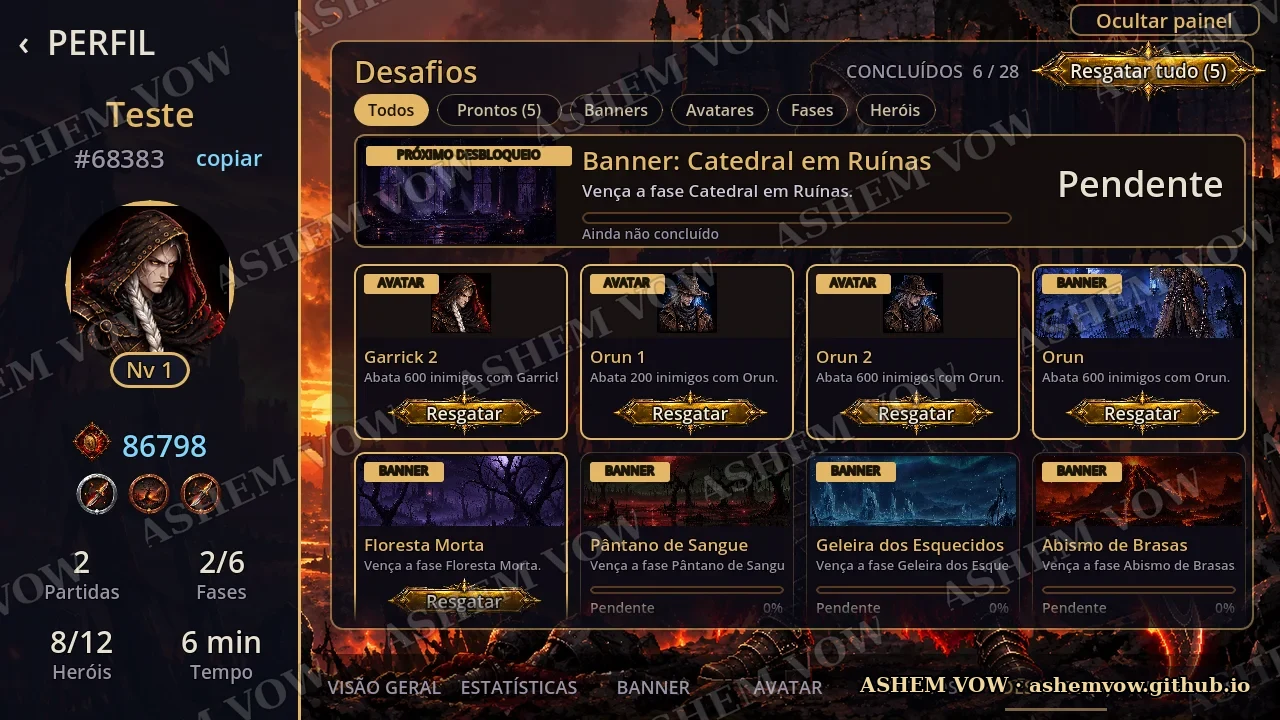
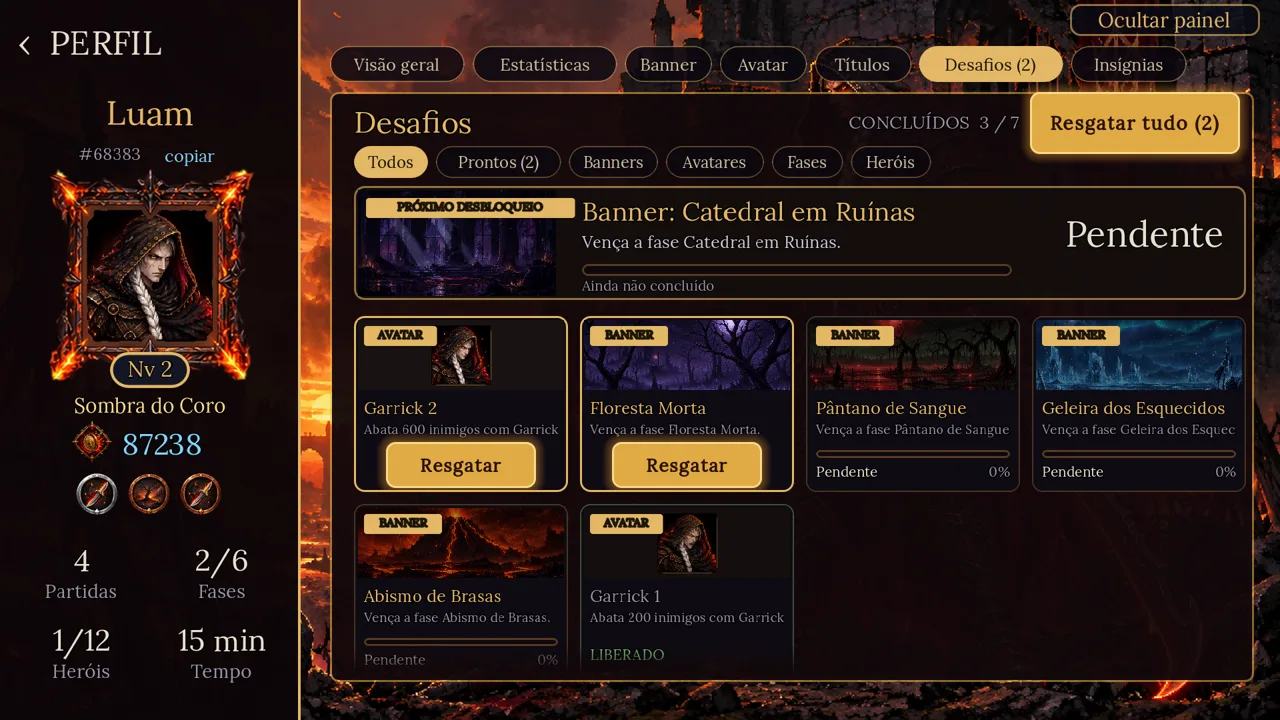
Versão 11: idiomas, tutorial, segurar habilidade, Passe e Roleta novos, perfil, ranking geral e apelido
Novidades no site e no jogo (novidades.txt), andamento, recursos, perguntas,
ficha (3 idiomas) e prints novos das telas.

Claude-Session: https://claude.ai/code/session_01LXs5qySdVa1eT6DHyL5ZEk

diff --git a/content.js b/content.js
@@ -31,7 +31,7 @@ window.SITE = {
   },
 
   /* Faixa rotativa abaixo do topo */
-  faixa: ["12 heróis jogáveis", "6 cenários dark fantasy", "18 chefes", "Partidas de até 15 minutos", "Ranking online", "Suporte a controle", "Progresso salvo na nuvem", "Sem pagar para vencer"],
+  faixa: ["12 heróis jogáveis", "6 cenários dark fantasy", "18 chefes", "Partidas de até 15 minutos", "Português, inglês e espanhol", "Tutorial para quem chega", "Ranking geral online", "Suporte a controle", "Progresso salvo na nuvem", "Sem pagar para vencer"],
 
   /* Carrossel "Seis momentos" */
   momentos: [
@@ -56,25 +56,32 @@ window.SITE = {
 
   /* "Além da partida" */
   recursos: [
-    { t: "Ranking online", d: "Compare seu melhor tempo em cada fase com jogadores de todo o Brasil." },
+    { t: "Ranking geral", d: "Seus melhores tempos de todas as fases somados num ranking só, com apelido único." },
     { t: "Missões e Maldição do dia", d: "Missões diárias e semanais, e uma maldição nova por dia que paga mais cinzas a quem aceita o desafio." },
-    { t: "Passe de Catedral", d: "30 níveis com trilha grátis e Premium, títulos, molduras e heróis exclusivos." },
+    { t: "Passe de Catedral", d: "Temporadas de 45 dias com 30 níveis, trilha grátis e Premium, títulos com insígnia própria, molduras e heróis exclusivos. As missões também dão XP do Passe." },
+    { t: "Em três idiomas", d: "Jogue em português, inglês ou espanhol. Troque quando quiser em Opções." },
     { t: "Maestria e insígnias", d: "Cada herói fica mais forte conforme você joga com ele. Desafios liberam banners, e 46 insígnias enfeitam o perfil." },
     { t: "Jogue com controle", d: "Conecte um controle Bluetooth, mude os botões como preferir e veja as dicas na tela." },
+    { t: "Fácil de começar", d: "Quem é novo ganha uma apresentação do menu e um tutorial na primeira partida. Segure qualquer habilidade para ver o que ela faz." },
     { t: "Sem pagar para vencer", d: "O jogo é grátis. Poções têm poder limitado e os anúncios são sempre opcionais." }
   ],
 
   /* Galeria de telas do jogo */
   galeriaJogo: [
-    { img: "assets/print-home.webp", legenda: "Tela inicial" },
+    { img: "assets/print-home.webp", legenda: "Tela inicial com o cartão do jogador" },
+    { img: "assets/print-apresentacao.webp", legenda: "Apresentação do menu para quem é novo" },
+    { img: "assets/print-tutorial.webp", legenda: "Tutorial da primeira partida" },
+    { img: "assets/print-segurar-habilidade.webp", legenda: "Segure a habilidade para ver o que ela faz" },
     { img: "assets/print-maestria.webp", legenda: "Heróis e maestria" },
     { img: "assets/print-preparar.webp", legenda: "Preparar: fase e poções" },
     { img: "assets/print-missoes.webp", legenda: "Missões e Maldição do dia" },
-    { img: "assets/print-passe.webp", legenda: "Passe de Catedral" },
+    { img: "assets/print-passe.webp", legenda: "Passe de Catedral: trilha Premium e grátis" },
     { img: "assets/print-roleta.webp", legenda: "Roleta da Catedral" },
+    { img: "assets/print-perfil.webp", legenda: "Perfil com tudo numa barra só" },
     { img: "assets/print-desafios.webp", legenda: "Desafios do perfil" },
     { img: "assets/print-insignias.webp", legenda: "Insígnias" },
-    { img: "assets/print-loja.webp", legenda: "Loja" }
+    { img: "assets/print-loja.webp", legenda: "Loja" },
+    { img: "assets/print-idioma-en.webp", legenda: "O jogo em inglês" }
   ],
 
   /* Perguntas frequentes */
@@ -84,6 +91,8 @@ window.SITE = {
     { p: "Quando o jogo lança?", r: "Logo depois do teste fechado. Quem se inscreve recebe o aviso por e-mail no dia do lançamento." },
     { p: "Como entro no teste fechado?", r: "Inscreva-se com o e-mail da conta Google que você usa na Play Store. Quando o teste abrir, mandamos o convite com o link para instalar." },
     { p: "Preciso de conta?", r: "Você entra com a sua conta Google. Assim o progresso fica salvo na nuvem e você não perde nada ao trocar de celular." },
+    { p: "Em quais idiomas dá para jogar?", r: "Português, inglês e espanhol. Na primeira vez o jogo usa o idioma do celular, e você troca quando quiser em Opções." },
+    { p: "Posso trocar meu apelido?", r: "O apelido é escolhido uma vez e é único no ranking. Para trocar depois, há uma troca de apelido por R$ 1,99 na própria tela do perfil (às vezes em promoção na Roleta)." },
     { p: "Dá para jogar com controle?", r: "Sim. Funciona com controle Bluetooth, os botões podem ser trocados e as dicas na tela seguem o padrão do controle de PS4." },
     { p: "Posso gravar vídeos e fazer lives?", r: "Pode, e a gente adora ver. Marque @ashemvow nas redes para aparecer no nosso perfil." }
   ],
@@ -95,13 +104,29 @@ window.SITE = {
     ["Plataforma", "Android (Google Play)"],
     ["Partidas", "Até 15 minutos"],
     ["Modelo", "Grátis, com compras opcionais"],
-    ["Idioma", "Português do Brasil"],
+    ["Idiomas", "Português, inglês e espanhol"],
     ["Controles", "Toque na tela ou controle Bluetooth"],
     ["Fase", "Teste fechado"]
   ],
 
   andamento: [
-    { titulo: "Já no jogo (versão 10)", itens: [
+    { titulo: "Já no jogo (versão 11)", itens: [
+      "Jogo em três idiomas: português, inglês e espanhol, com troca em Opções",
+      "Apresentação do menu e tutorial da primeira partida para quem é novo (dá para rever em Opções)",
+      "Segure o botão de uma habilidade para ver o nome, o que ela faz e o tempo de recarga",
+      "Botões da partida reagem ao toque, com brilho e onda",
+      "Passe de Catedral redesenhado, com vitrine do prêmio principal, trilha Premium e grátis e temporadas de 45 dias que começam no lançamento",
+      "Missões diárias e semanais também dão XP do Passe",
+      "Títulos do Passe com insígnia própria, uma para cada título",
+      "Roleta nova: a roda gira inteira e o prêmio aparece com a quantidade",
+      "Promoção surpresa na Roleta: heróis da loja, Passe Premium ou troca de apelido com desconto por 24 horas",
+      "Perfil com todas as abas numa barra só no topo: visão geral, estatísticas, banner, avatar, títulos, desafios e insígnias",
+      "Cartão do jogador na tela inicial com banner, moldura, nível, título e insígnias",
+      "Ranking geral: soma dos melhores tempos em todas as fases",
+      "Apelido escolhido uma vez, com confirmação; trocar depois custa R$ 1,99",
+      "Compras e anúncios reais do Google Play conectados, em teste",
+      "Jogo atualizado para a Godot 4.7, no padrão exigido pela Google Play",
+      "Cenas da história removidas para deixar o jogo mais leve",
       "Missões diárias (3) e semanais (3), com cinzas, fragmentos e XP do Passe, e indicador no menu quando há recompensa para resgatar",
       "Maldição do dia: um efeito novo por dia (horda, inimigos mais fortes, mais rápidos, sem cura ou herói mais frágil) que rende 75% a mais de cinzas, ligado por você em Preparar",
       "Maestria de herói: 5 níveis por herói, com bônus exclusivo de cada um, mostrados na tela de Heróis",
@@ -131,32 +156,35 @@ window.SITE = {
       "6 fases com cenário, 9 criaturas voadoras próprias e 3 chefes cada (18 chefes no total)",
       "Dificuldade reequilibrada: ataques à distância mais lentos e avisos antes dos mergulhos",
       "Habilidades e efeitos (explosões, itens, armas) desenhados por código, mais longos e visíveis até o fim",
-      "História em cutscenes narradas, com final de escolha",
       "8 poções temporárias, escolhidas antes da partida",
       "Recompensa diária de 7 dias (faltar um dia só pausa a sequência)",
-      "Loja, aba de novidades, trilha e vozes em volumes separados",
+      "Loja, aba de novidades, trilha e efeitos em volumes separados",
       "Anúncios opcionais para ganhar recompensas",
       "Login com conta Google, apelido escolhido no primeiro acesso e progresso salvo na nuvem",
       "Opção de sair da conta ou excluir a conta e os dados dentro do jogo"
     ]},
     { titulo: "Em produção", itens: [
       "Recompensas raras do site com login Google opcional (página de conta pronta, em teste), com banners e insígnias exclusivos",
-      "4 heróis novos (Ysolde, Kaelor, Mordrek e Lyra) com visual e animações prontos, a caminho do jogo",
       "Animações novas de correr e atacar do Sombras das Cinzas, do Irmão Brasa e da Vesper, e de parado do Irmão Brasa e da Vesper",
-      "Conectar compras e anúncios reais do Google Play",
+      "Teste fechado na Google Play com 12 testadores",
       "Trilhas próprias para Floresta, Pântano e Geleira",
       "Ajustes de equilíbrio dos chefes e testes em celulares reais",
-      "Legendas completas nas cenas"
+      "Mais idiomas"
     ]},
     { titulo: "Planejado", itens: [
       "Códigos de resgate com recompensas exclusivas, com conta de login",
-      "Ranking global com nick único (em ajuste)",
       "Recompensa por horas jogadas",
             "Lançamento na Google Play (Android)"
     ]}
   ],
   /* Novas novidades: copie um bloco e coloque no TOPO da lista */
   novidades: [
+    { data: "08/11/2026", titulo: "Versão 11: o jogo agora fala inglês e espanhol", texto: "Ashem Vow pode ser jogado em português, inglês ou espanhol. Na primeira vez ele usa o idioma do celular, e dá para trocar quando quiser em Opções. Menus, heróis, habilidades, armas, missões e maldições foram traduzidos." },
+    { data: "08/11/2026", titulo: "Apresentação do menu e tutorial para quem chega", texto: "Quem abre o jogo pela primeira vez vê uma apresentação rápida do menu, com cada parte iluminada e explicada. Depois, a primeira partida ensina a andar, atacar, ligar o ataque automático, subir de nível e usar as habilidades. Tudo pode ser pulado e revisto em Opções." },
+    { data: "08/11/2026", titulo: "Segure a habilidade para saber o que ela faz", texto: "Na partida, um toque rápido usa a habilidade. Segurando o botão aparece o nome, o que ela faz e o tempo de recarga, sem gastar a carga. As 39 habilidades dos 13 heróis têm explicação. Os botões também ganharam um brilho e uma onda ao toque, para mostrar que foram apertados." },
+    { data: "08/11/2026", titulo: "Passe de Catedral redesenhado e com temporadas", texto: "O Passe ganhou uma vitrine com o prêmio principal, trilha Premium em cima e grátis embaixo, e títulos com insígnia própria. As temporadas duram 45 dias e começam a contar no lançamento oficial. As missões diárias e semanais agora também dão XP do Passe." },
+    { data: "08/11/2026", titulo: "Roleta nova com promoções surpresa", texto: "A roda gira inteira e o prêmio aparece na tela com a quantidade. A fatia de promoção agora sorteia um desconto de 24 horas no que você ainda não tem: um herói da loja, o Passe Premium ou a troca de apelido." },
+    { data: "08/11/2026", titulo: "Perfil, cartão do jogador e ranking geral", texto: "O perfil reúne tudo numa barra só no topo. A tela inicial tem um cartão do jogador com o seu banner, moldura, nível, título e insígnias. O ranking virou geral: soma os seus melhores tempos de todas as fases. O apelido é escolhido uma vez, com confirmação, e trocar depois custa R$ 1,99." },
     { data: "27/10/2026", titulo: "Recompensas raras do site, com login opcional", texto: "O site ganhou uma página de conta. Entrando com o mesmo login Google do jogo (opcional), você resgata itens raros que só existem aqui: duas insígnias exclusivas (banners exclusivos chegam em breve). Para liberar cada um é preciso cumprir uma tarefa difícil dentro do jogo, como abater 10 mil inimigos. Depois de resgatar no site, o item cai direto na sua conta no jogo." },
     { data: "27/10/2026", titulo: "Versão 10: missões, maldição do dia e maestria", texto: "Três missões diárias e três semanais renovam sozinhas e pagam cinzas, fragmentos e XP do Passe. Cada dia traz uma Maldição nova (mais inimigos, mais vida, mais dano, mais velocidade, sem cura ou você mais frágil): ligue em Preparar e ganhe 75% a mais de cinzas. Cada herói também tem maestria de 5 níveis, com um bônus só dele, que sobe conforme você abate com ele." },
     { data: "27/10/2026", titulo: "Baú no fim da partida e o aviso Quase lá", texto: "Toda partida termina com um baú de bronze, prata ou ouro, de acordo com o seu desempenho, com cinzas, fragmentos ou XP do Passe. O jogo também mostra a insígnia ou missão que está mais perto de ser concluída, para você saber o que falta." },
@@ -213,6 +241,14 @@ window.SITE = {
   projeto: {
     intro: "Prints do jogo, folhas de arte e conceitos de Ashem Vow. Tudo em andamento e sujeito a mudanças.",
     itens: [
+      {"data": "08/11/2026", "img": "assets/print-apresentacao.webp", "legenda": "Apresentação do menu para jogadores novos"},
+      {"data": "08/11/2026", "img": "assets/print-tutorial.webp", "legenda": "Tutorial da primeira partida"},
+      {"data": "08/11/2026", "img": "assets/print-segurar-habilidade.webp", "legenda": "Segurando a habilidade: nome, efeito e recarga"},
+      {"data": "08/11/2026", "img": "assets/print-idioma-en.webp", "legenda": "Loja em inglês"},
+      {"data": "08/11/2026", "img": "assets/print-passe.webp", "legenda": "Passe de Catedral redesenhado"},
+      {"data": "08/11/2026", "img": "assets/print-roleta.webp", "legenda": "Roleta nova"},
+      {"data": "08/11/2026", "img": "assets/print-home.webp", "legenda": "Tela inicial com o cartão do jogador"},
+      {"data": "08/11/2026", "img": "assets/print-perfil.webp", "legenda": "Perfil com todas as abas no topo"},
       {"data": "27/10/2026", "img": "assets/print-missoes.webp", "legenda": "Missões diárias e semanais, com a Maldição do dia"},
       {"data": "27/10/2026", "img": "assets/print-fim.webp", "legenda": "Fim de partida: Maldição ativa, Quase lá e Baú de Prata"},
       {"data": "27/10/2026", "img": "assets/print-maestria.webp", "legenda": "Maestria do herói na tela de Heróis"},
@@ -248,7 +284,7 @@ window.SITE = {
     ]
   },
   /* Personagens, criaturas e cenários: gerados a partir do jogo. Imagens em assets/ */
-  personagens: [{"nome": "Garrick", "titulo": "Guardião das Cinzas", "habilidade": "Aura de Brasas", "descricao": "Um círculo de fogo queima quem chega perto e explode de tempos em tempos.", "skins": [{"nome": "Guardião das Cinzas", "img": "assets/p-garrick-padrao.webp"}], "banner": "assets/b-garrick.webp", "habilidades": [{"nome": "Aura de Brasas", "img": "assets/s-garrick-1.webp"}, {"nome": "Corte Ígneo", "img": "assets/s-garrick-2.webp"}, {"nome": "Eclipse de Cinzas", "img": "assets/s-garrick-3.webp"}]}, {"nome": "Yurinn", "titulo": "Tecelã de Brasas", "habilidade": "Fios de Brasa", "descricao": "Tece fios de fogo que perseguem os inimigos mais próximos.", "skins": [{"nome": "Tecelã de Brasas", "img": "assets/p-yurinn-padrao.webp"}], "banner": "assets/b-yurinn.webp", "habilidades": [{"nome": "Fios de Brasa", "img": "assets/s-yurinn-1.webp"}, {"nome": "Casulo", "img": "assets/s-yurinn-2.webp"}, {"nome": "Teia Ardente", "img": "assets/s-yurinn-3.webp"}]}, {"nome": "Brann", "titulo": "Sentinela da Luz Pálida", "habilidade": "Pilares de Luz", "descricao": "Chama colunas de luz sobre os inimigos. Muita vida, passos lentos.", "skins": [{"nome": "Sentinela da Luz Pálida", "img": "assets/p-brann-padrao.webp"}], "banner": "assets/b-brann.webp", "habilidades": [{"nome": "Pilares de Luz", "img": "assets/s-brann-1.webp"}, {"nome": "Selo Sagrado", "img": "assets/s-brann-2.webp"}, {"nome": "Julgamento", "img": "assets/s-brann-3.webp"}]}, {"nome": "Selka", "titulo": "Dançarina das Sombras", "habilidade": "Tempestade de Lâminas", "descricao": "Lâminas giram ao redor dela e cortam tudo no caminho. Rápida e frágil.", "skins": [{"nome": "Dançarina das Sombras", "img": "assets/p-selka-padrao.webp"}], "banner": "assets/b-selka.webp", "habilidades": [{"nome": "Tempestade de Lâminas", "img": "assets/s-selka-1.webp"}, {"nome": "Corrente Voadora", "img": "assets/s-selka-2.webp"}, {"nome": "Ceifa Sombria", "img": "assets/s-selka-3.webp"}]}, {"nome": "Orun", "titulo": "Coveiro das Almas", "habilidade": "Almas Ligadas", "descricao": "Almas libertas caçam os inimigos. Cada abate pode libertar mais uma.", "skins": [{"nome": "Coveiro das Almas", "img": "assets/p-orun-padrao.webp"}], "banner": "assets/b-orun.webp", "habilidades": [{"nome": "Almas Ligadas", "img": "assets/s-orun-1.webp"}, {"nome": "Mão do Coveiro", "img": "assets/s-orun-2.webp"}, {"nome": "Procissão dos Mortos", "img": "assets/s-orun-3.webp"}]}, {"nome": "Sombras das Cinzas", "titulo": "Mago das Sombras", "habilidade": "Bola de Fogo", "descricao": "Herói premium, à venda na loja por R$ 3,99 (às vezes em promoção na roleta). Feito de sombra e cinza, lança bolas de fogo, chuva de cinzas e explosões de sombras.", "skins": [{"nome": "Mago das Sombras", "img": "assets/p-sombras-padrao.webp"}], "banner": "assets/b-sombras.webp", "habilidades": [{"nome": "Bola de Fogo", "img": "assets/s-sombras-1.webp"}, {"nome": "Chuva de Cinzas", "img": "assets/s-sombras-2.webp"}, {"nome": "Explosão de Sombras", "img": "assets/s-sombras-3.webp"}]}, {"nome": "Ysolde", "titulo": "Bruxa da Geleira", "habilidade": "Estilhaços de Gelo", "descricao": "Herói da loja, R$ 6,99. Dispara dardos de gelo que atrasam quem acertam, congela o chão em volta dela e termina numa nevasca.", "skins": [{"nome": "Bruxa da Geleira", "img": "assets/p-ysolde-padrao.webp"}], "banner": "assets/b-ysolde.webp", "habilidades": [{"nome": "Estilhaços de Gelo", "img": "assets/s-ysolde-1.webp"}, {"nome": "Zona Congelante", "img": "assets/s-ysolde-2.webp"}, {"nome": "Nevasca", "img": "assets/s-ysolde-3.webp"}]}, {"nome": "Kaelor", "titulo": "Caçador de Espinhos", "habilidade": "Espinhos Brotando", "descricao": "Herói da loja, R$ 6,99. Espinhos negros rasgam o chão à frente dele e atordoam quem está no caminho. Cipós prendem os inimigos e uma roseira negra cobre a área.", "skins": [{"nome": "Caçador de Espinhos", "img": "assets/p-kaelor-padrao.webp"}], "banner": "assets/b-kaelor.webp", "habilidades": [{"nome": "Espinhos Brotando", "img": "assets/s-kaelor-1.webp"}, {"nome": "Cipó Prendedor", "img": "assets/s-kaelor-2.webp"}, {"nome": "Roseira Negra", "img": "assets/s-kaelor-3.webp"}]}, {"nome": "Mordrek", "titulo": "Alquimista da Peste", "habilidade": "Frasco Tóxico", "descricao": "Herói da loja, R$ 6,99. Arremessa frascos que deixam poças de veneno, solta uma nuvem pútrida e faz brotar uma flor da peste.", "skins": [{"nome": "Alquimista da Peste", "img": "assets/p-mordrek-padrao.webp"}], "banner": "assets/b-mordrek.webp", "habilidades": [{"nome": "Frasco Tóxico", "img": "assets/s-mordrek-1.webp"}, {"nome": "Nuvem Pútrida", "img": "assets/s-mordrek-2.webp"}, {"nome": "Flor da Peste", "img": "assets/s-mordrek-3.webp"}]}, {"nome": "Lyra", "titulo": "Arqueira Lunar", "habilidade": "Flecha Perfurante", "descricao": "Herói da loja, R$ 6,99. Uma flecha prateada atravessa a fila inteira de inimigos, chove flechas sobre a horda e a Marca da Lua cai sobre o mais forte.", "skins": [{"nome": "Arqueira Lunar", "img": "assets/p-lyra-padrao.webp"}], "banner": "assets/b-lyra.webp", "habilidades": [{"nome": "Flecha Perfurante", "img": "assets/s-lyra-1.webp"}, {"nome": "Chuva de Flechas", "img": "assets/s-lyra-2.webp"}, {"nome": "Marca da Lua", "img": "assets/s-lyra-3.webp"}]}, {"nome": "Irmão Brasa", "titulo": "Monge do Machado", "habilidade": "Giro Ardente", "descricao": "Exclusivo do Passe Premium, nível 15. Gira o machado e um círculo de brasas queima e atrasa os inimigos em volta.", "skins": [{"nome": "Monge do Machado", "img": "assets/p-monge-padrao.webp"}], "banner": "assets/b-monge.webp", "habilidades": [{"nome": "Giro Ardente", "img": "assets/s-monge-1.webp"}, {"nome": "Machados Voadores", "img": "assets/s-monge-2.webp"}, {"nome": "Golpe do Penitente", "img": "assets/s-monge-3.webp"}]}, {"nome": "Vesper", "titulo": "Cantora do Sino Negro", "habilidade": "Badalada", "descricao": "Exclusiva do Passe Premium, nível 30. O sino rachado ressoa em volta dela e fere quem chega perto.", "skins": [{"nome": "Cantora do Sino Negro", "img": "assets/p-vesper-padrao.webp"}], "banner": "assets/b-vesper.webp", "habilidades": [{"nome": "Badalada", "img": "assets/s-vesper-1.webp"}, {"nome": "Coro Sombrio", "img": "assets/s-vesper-2.webp"}, {"nome": "Réquiem", "img": "assets/s-vesper-3.webp"}]}, {"nome": "Dravik", "titulo": "Penitente da Tinta", "habilidade": "Selo de Tinta", "descricao": "Exclusivo do próximo Passe de Catedral. Tanque veloz que luta com os punhos e tem dano alto. Grava selos de tinta no chão, prende a horda com correntes e faz chover tinta sobre a tela inteira.", "skins": [{"nome": "Penitente da Tinta", "img": "assets/p-dravik-padrao.webp"}], "banner": "assets/b-dravik.webp", "habilidades": [{"nome": "Selo de Tinta", "img": "assets/s-dravik-1.webp"}, {"nome": "Correntes de Tinta", "img": "assets/s-dravik-2.webp"}, {"nome": "Chuva de Tinta", "img": "assets/s-dravik-3.webp"}], "tag": "Em breve · Passe da próxima temporada"}],
+  personagens: [{"nome": "Garrick", "titulo": "Guardião das Cinzas", "habilidade": "Aura de Brasas", "descricao": "Um círculo de fogo queima quem chega perto e explode de tempos em tempos.", "skins": [{"nome": "Guardião das Cinzas", "img": "assets/p-garrick-padrao.webp"}], "banner": "assets/b-garrick.webp", "habilidades": [{"nome": "Aura de Brasas", "img": "assets/s-garrick-1.webp"}, {"nome": "Corte Ígneo", "img": "assets/s-garrick-2.webp"}, {"nome": "Eclipse de Cinzas", "img": "assets/s-garrick-3.webp"}]}, {"nome": "Yurinn", "titulo": "Tecelã de Brasas", "habilidade": "Fios de Brasa", "descricao": "Tece fios de fogo que perseguem os inimigos mais próximos.", "skins": [{"nome": "Tecelã de Brasas", "img": "assets/p-yurinn-padrao.webp"}], "banner": "assets/b-yurinn.webp", "habilidades": [{"nome": "Fios de Brasa", "img": "assets/s-yurinn-1.webp"}, {"nome": "Casulo", "img": "assets/s-yurinn-2.webp"}, {"nome": "Teia Ardente", "img": "assets/s-yurinn-3.webp"}]}, {"nome": "Brann", "titulo": "Sentinela da Luz Pálida", "habilidade": "Pilares de Luz", "descricao": "Chama colunas de luz sobre os inimigos. Muita vida, passos lentos.", "skins": [{"nome": "Sentinela da Luz Pálida", "img": "assets/p-brann-padrao.webp"}], "banner": "assets/b-brann.webp", "habilidades": [{"nome": "Pilares de Luz", "img": "assets/s-brann-1.webp"}, {"nome": "Selo Sagrado", "img": "assets/s-brann-2.webp"}, {"nome": "Julgamento", "img": "assets/s-brann-3.webp"}]}, {"nome": "Selka", "titulo": "Dançarina das Sombras", "habilidade": "Tempestade de Lâminas", "descricao": "Lâminas giram ao redor dela e cortam tudo no caminho. Rápida e frágil.", "skins": [{"nome": "Dançarina das Sombras", "img": "assets/p-selka-padrao.webp"}], "banner": "assets/b-selka.webp", "habilidades": [{"nome": "Tempestade de Lâminas", "img": "assets/s-selka-1.webp"}, {"nome": "Corrente Voadora", "img": "assets/s-selka-2.webp"}, {"nome": "Ceifa Sombria", "img": "assets/s-selka-3.webp"}]}, {"nome": "Orun", "titulo": "Coveiro das Almas", "habilidade": "Almas Ligadas", "descricao": "Almas libertas caçam os inimigos. Cada abate pode libertar mais uma.", "skins": [{"nome": "Coveiro das Almas", "img": "assets/p-orun-padrao.webp"}], "banner": "assets/b-orun.webp", "habilidades": [{"nome": "Almas Ligadas", "img": "assets/s-orun-1.webp"}, {"nome": "Mão do Coveiro", "img": "assets/s-orun-2.webp"}, {"nome": "Procissão dos Mortos", "img": "assets/s-orun-3.webp"}]}, {"nome": "Sombras das Cinzas", "titulo": "Mago das Sombras", "habilidade": "Bola de Fogo", "descricao": "Herói premium, à venda na loja por R$ 3,99 (às vezes em promoção na roleta). Feito de sombra e cinza, lança bolas de fogo, rajadas de chamas e uma chuva de meteoros.", "skins": [{"nome": "Mago das Sombras", "img": "assets/p-sombras-padrao.webp"}], "banner": "assets/b-sombras.webp", "habilidades": [{"nome": "Bola de Fogo", "img": "assets/s-sombras-1.webp"}, {"nome": "Rajada de Chamas", "img": "assets/s-sombras-2.webp"}, {"nome": "Chuva de Meteoros", "img": "assets/s-sombras-3.webp"}]}, {"nome": "Ysolde", "titulo": "Bruxa da Geleira", "habilidade": "Estilhaços de Gelo", "descricao": "Herói da loja, R$ 6,99 (às vezes em promoção na roleta). Dispara dardos de gelo que atrasam quem acertam, congela o chão em volta dela e termina numa nevasca.", "skins": [{"nome": "Bruxa da Geleira", "img": "assets/p-ysolde-padrao.webp"}], "banner": "assets/b-ysolde.webp", "habilidades": [{"nome": "Estilhaços de Gelo", "img": "assets/s-ysolde-1.webp"}, {"nome": "Zona Congelante", "img": "assets/s-ysolde-2.webp"}, {"nome": "Nevasca", "img": "assets/s-ysolde-3.webp"}]}, {"nome": "Kaelor", "titulo": "Caçador de Espinhos", "habilidade": "Espinhos Brotando", "descricao": "Herói da loja, R$ 6,99 (às vezes em promoção na roleta). Espinhos negros rasgam o chão à frente dele e atordoam quem está no caminho. Cipós prendem os inimigos e uma roseira negra cobre a área.", "skins": [{"nome": "Caçador de Espinhos", "img": "assets/p-kaelor-padrao.webp"}], "banner": "assets/b-kaelor.webp", "habilidades": [{"nome": "Espinhos Brotando", "img": "assets/s-kaelor-1.webp"}, {"nome": "Cipó Prendedor", "img": "assets/s-kaelor-2.webp"}, {"nome": "Roseira Negra", "img": "assets/s-kaelor-3.webp"}]}, {"nome": "Mordrek", "titulo": "Alquimista da Peste", "habilidade": "Frasco Tóxico", "descricao": "Herói da loja, R$ 6,99 (às vezes em promoção na roleta). Arremessa frascos que deixam poças de veneno, solta uma nuvem pútrida e faz brotar uma flor da peste.", "skins": [{"nome": "Alquimista da Peste", "img": "assets/p-mordrek-padrao.webp"}], "banner": "assets/b-mordrek.webp", "habilidades": [{"nome": "Frasco Tóxico", "img": "assets/s-mordrek-1.webp"}, {"nome": "Nuvem Pútrida", "img": "assets/s-mordrek-2.webp"}, {"nome": "Flor da Peste", "img": "assets/s-mordrek-3.webp"}]}, {"nome": "Lyra", "titulo": "Arqueira Lunar", "habilidade": "Flecha Perfurante", "descricao": "Herói da loja, R$ 6,99 (às vezes em promoção na roleta). Uma flecha prateada atravessa a fila inteira de inimigos, chove flechas sobre a horda e a Marca da Lua cai sobre o mais forte.", "skins": [{"nome": "Arqueira Lunar", "img": "assets/p-lyra-padrao.webp"}], "banner": "assets/b-lyra.webp", "habilidades": [{"nome": "Flecha Perfurante", "img": "assets/s-lyra-1.webp"}, {"nome": "Chuva de Flechas", "img": "assets/s-lyra-2.webp"}, {"nome": "Marca da Lua", "img": "assets/s-lyra-3.webp"}]}, {"nome": "Irmão Brasa", "titulo": "Monge do Machado", "habilidade": "Giro Ardente", "descricao": "Exclusivo do Passe Premium, nível 15. Gira o machado e um círculo de brasas queima e atrasa os inimigos em volta.", "skins": [{"nome": "Monge do Machado", "img": "assets/p-monge-padrao.webp"}], "banner": "assets/b-monge.webp", "habilidades": [{"nome": "Giro Ardente", "img": "assets/s-monge-1.webp"}, {"nome": "Machados Voadores", "img": "assets/s-monge-2.webp"}, {"nome": "Golpe do Penitente", "img": "assets/s-monge-3.webp"}]}, {"nome": "Vesper", "titulo": "Cantora do Sino Negro", "habilidade": "Badalada", "descricao": "Exclusiva do Passe Premium, nível 30. O sino rachado ressoa em volta dela e fere quem chega perto.", "skins": [{"nome": "Cantora do Sino Negro", "img": "assets/p-vesper-padrao.webp"}], "banner": "assets/b-vesper.webp", "habilidades": [{"nome": "Badalada", "img": "assets/s-vesper-1.webp"}, {"nome": "Coro Sombrio", "img": "assets/s-vesper-2.webp"}, {"nome": "Réquiem", "img": "assets/s-vesper-3.webp"}]}, {"nome": "Dravik", "titulo": "Penitente da Tinta", "habilidade": "Selo de Tinta", "descricao": "Exclusivo do próximo Passe de Catedral. Tanque veloz que luta com os punhos e tem dano alto. Grava selos de tinta no chão, prende a horda com correntes e faz chover tinta sobre a tela inteira.", "skins": [{"nome": "Penitente da Tinta", "img": "assets/p-dravik-padrao.webp"}], "banner": "assets/b-dravik.webp", "habilidades": [{"nome": "Selo de Tinta", "img": "assets/s-dravik-1.webp"}, {"nome": "Correntes de Tinta", "img": "assets/s-dravik-2.webp"}, {"nome": "Chuva de Tinta", "img": "assets/s-dravik-3.webp"}], "tag": "Em breve · Passe da próxima temporada"}],
   vigiliaHerois: [
     {"nome": "Hálvar", "titulo": "o Lanterneiro", "img": "assets/v-halvar.webp", "arma": "aura", "cor": "#ffb04a", "txt": "A lanterna queima quem chega perto"},
     {"nome": "Nerys", "titulo": "a Caçadora", "img": "assets/v-nerys.webp", "arma": "bolt", "cor": "#dfe8ff", "pierce": 3, "speed": 1.5, "txt": "Flechas que atravessam a fila inteira"},
